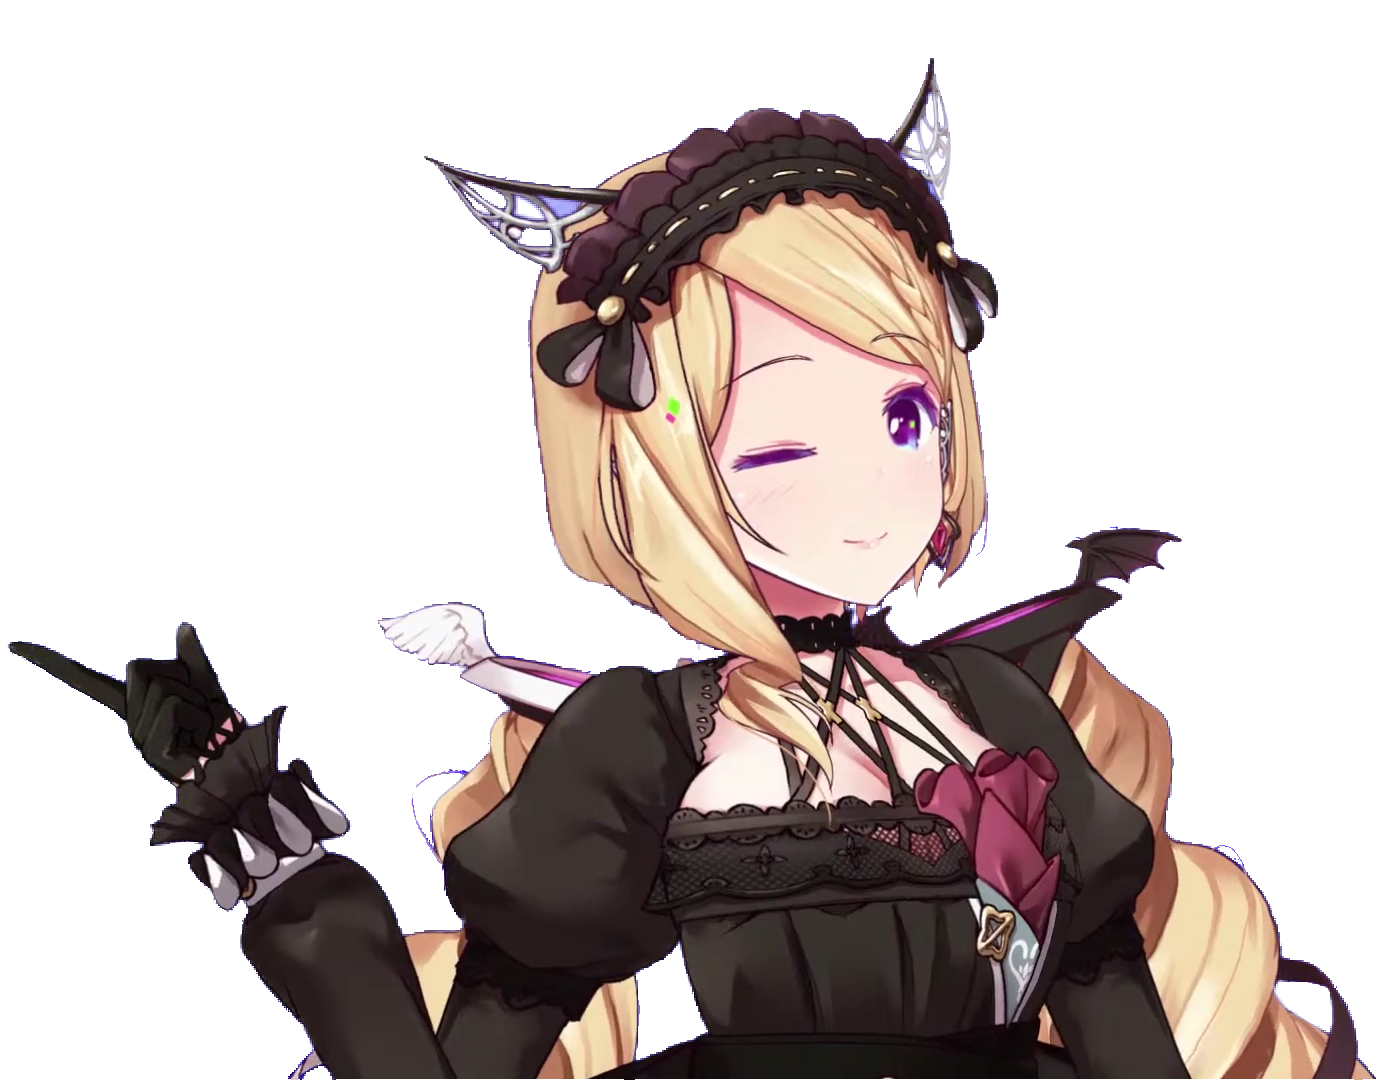
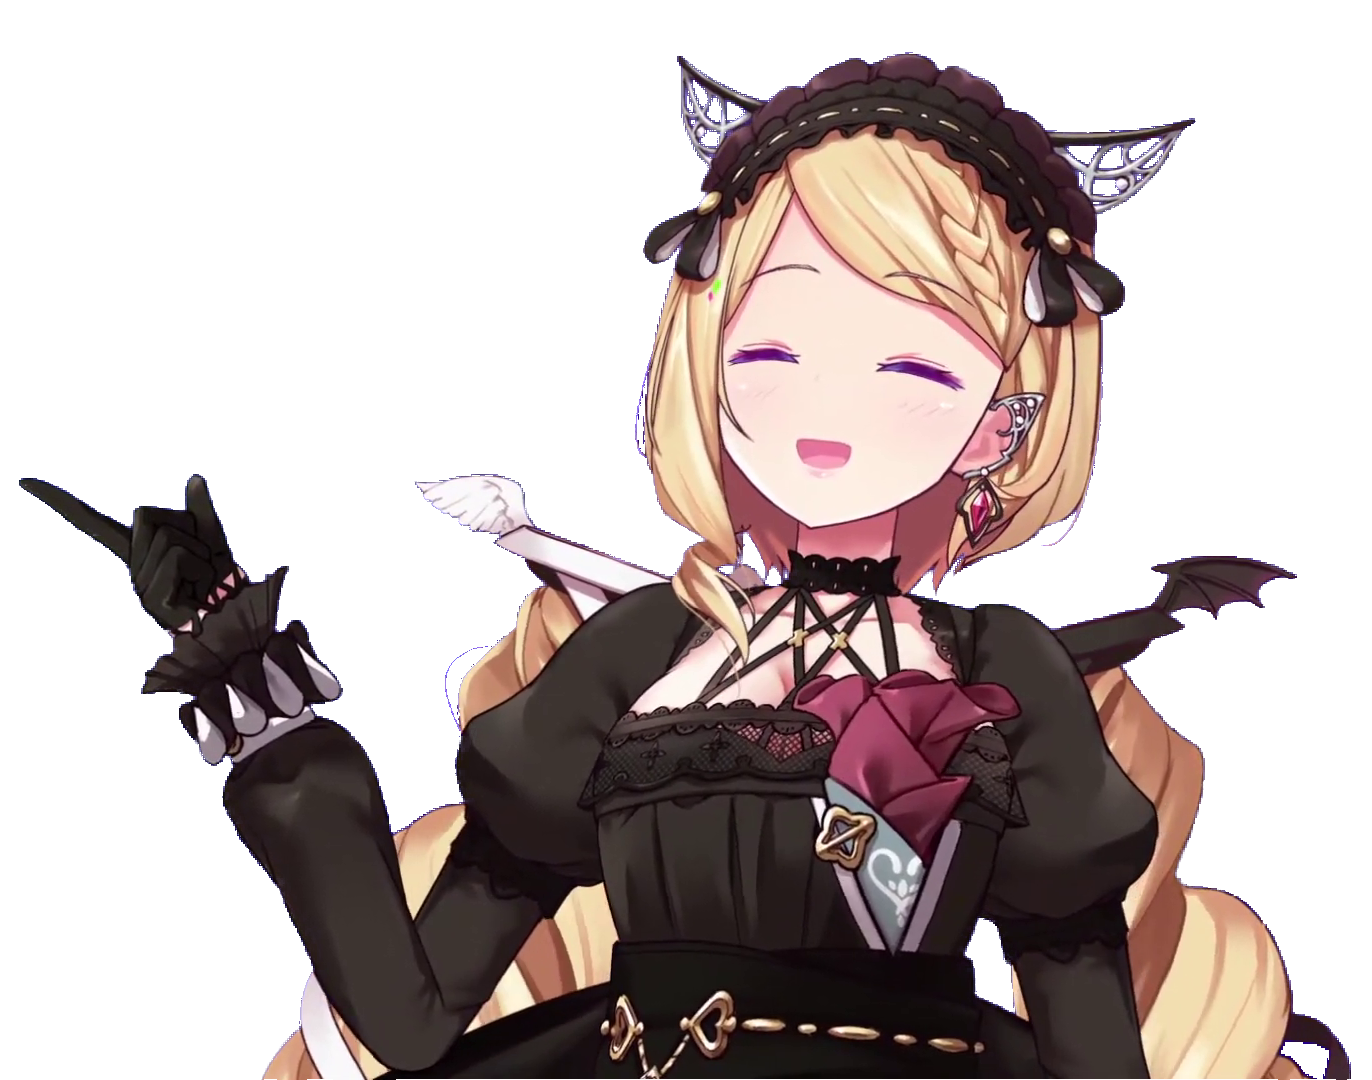
seperate aki photo into AkiPhoto.vue

diff --git a/src/views/Quiz.vue b/src/views/Quiz.vue
@@ -25,11 +25,11 @@
           <b-col cols="1" class="d-none d-lg-block" />
           <b-col>
             <b-container class="content">
-              <QuizArea @returnToOptions="endQuiz" :options="options" />
+              <QuizArea @returnToOptions="endQuiz" @setState="setState" :options="options" />
             </b-container>
           </b-col>
           <b-col cols="5" class="d-none d-xl-block" align-self="center">
-            <b-img fluid :src="require('@/assets/akiPoses/point1.png')" />
+            <aki-photo :quizState="quizState" />
           </b-col>
         </b-row>
       </b-container>
@@ -40,11 +40,13 @@
 <script>
 import Options from "@/components/Options.vue";
 import QuizArea from "@/components/QuizArea.vue";
+import AkiPhoto from "@/components/AkiPhoto.vue";
 export default {
   name: "Quiz",
   components: {
     Options,
-    QuizArea
+    QuizArea,
+    AkiPhoto,
   },
   computed: {
     settingsValid() {
@@ -52,12 +54,13 @@ export default {
         return true;
       }
       return false;
-    }
+    },
   },
   data() {
     return {
       options: {},
-      quizDisplay: false
+      quizDisplay: false,
+      quizState: undefined
     };
   },
   methods: {
@@ -66,10 +69,14 @@ export default {
     },
     beginQuiz() {
       this.quizDisplay = true;
+      this.quizState = "prompt"
     },
     endQuiz() {
       this.quizDisplay = false;
+    },
+    setState(s) {
+      this.quizState = s
     }
-  }
+  },
 };
 </script>

diff --git a/src/components/AkiPhoto.vue b/src/components/AkiPhoto.vue
@@ -1,0 +1,54 @@
+<template>
+  <div>
+    <b-img fluid v-if="picture" :src="picture" />
+    <h1>Current State: {{ quizState }}</h1>
+  </div>
+</template>
+
+<script>
+export default {
+  name: "AkiPhoto",
+  props: {
+    quizState: {
+      type: String,
+    },
+  },
+  computed: {
+    picture() {
+      switch (this.quizState) {
+        case "prompt": {
+          //thinking
+          return undefined;
+        }
+        case "correct": {
+          //wink/pointing
+          const image = this.getCorrectPhoto();
+          return require(`@/assets/akiPoses/${image}`);
+        }
+        case "incorrect": {
+          //shocked
+          return undefined;
+        }
+        case "concluded": {
+          //yay face
+          return undefined;
+        }
+        default:
+          return undefined
+      }
+    },
+  },
+  data() {
+    return {
+      correctCounter: 0,
+      pointMax: 4,
+      possibleStates: ["prompt", "correct", "incorrect", "concluded"],
+    };
+  },
+  methods: {
+    getCorrectPhoto() {
+      return `point${this.correctCounter++ % this.pointMax}.png`;
+    }
+  }
+};
+</script>

diff --git a/src/components/QuizArea.vue b/src/components/QuizArea.vue
@@ -153,7 +153,7 @@ export default {
     },
     displayNextQuestion() {
       this.displayAnswerRow = false;
-      this.currentAnswerCorrect = false;
+      this.currentAnswerCorrect = undefined;
       this.currentQuestion = this.buildQuestion();
     },
     startTimer() {
@@ -315,6 +315,23 @@ export default {
       if (this.options.timeOption == "Timed" && val <= 0) {
         this.endGame();
       }
+    },
+    currentAnswerCorrect(val) {
+        // if (this.gameState === "ended") {
+        //   //todo: make this better
+        // }
+        switch(val) {
+          case true:
+            this.$emit("setState", "correct")
+            break;
+          case false:
+            this.$emit("setState", "incorrect")
+            break;
+          case undefined:
+            this.$emit("setState", "prompt")
+            break;
+        }
+
     }
   }
 };
